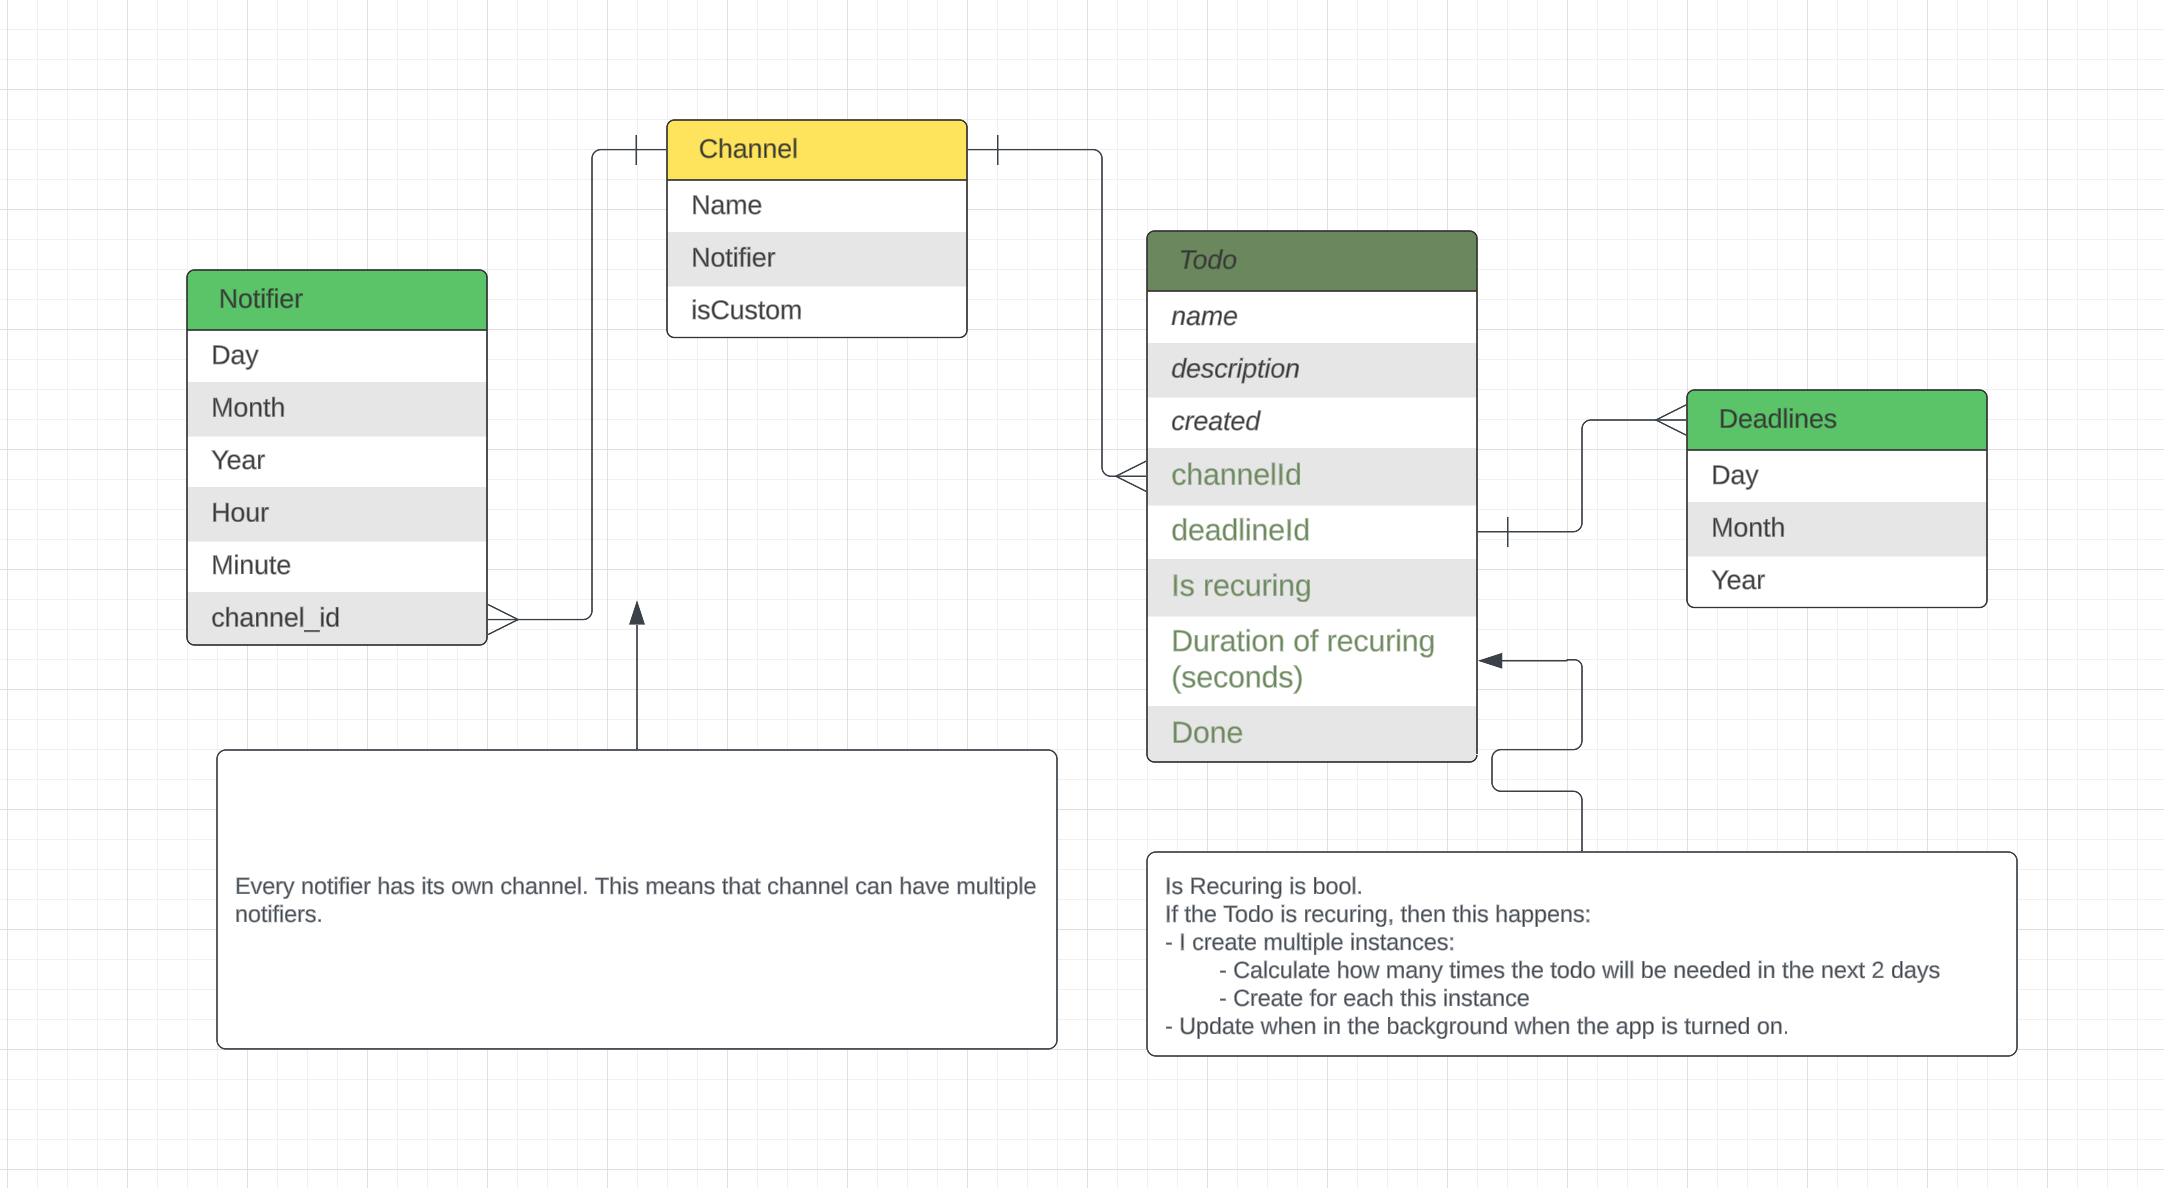
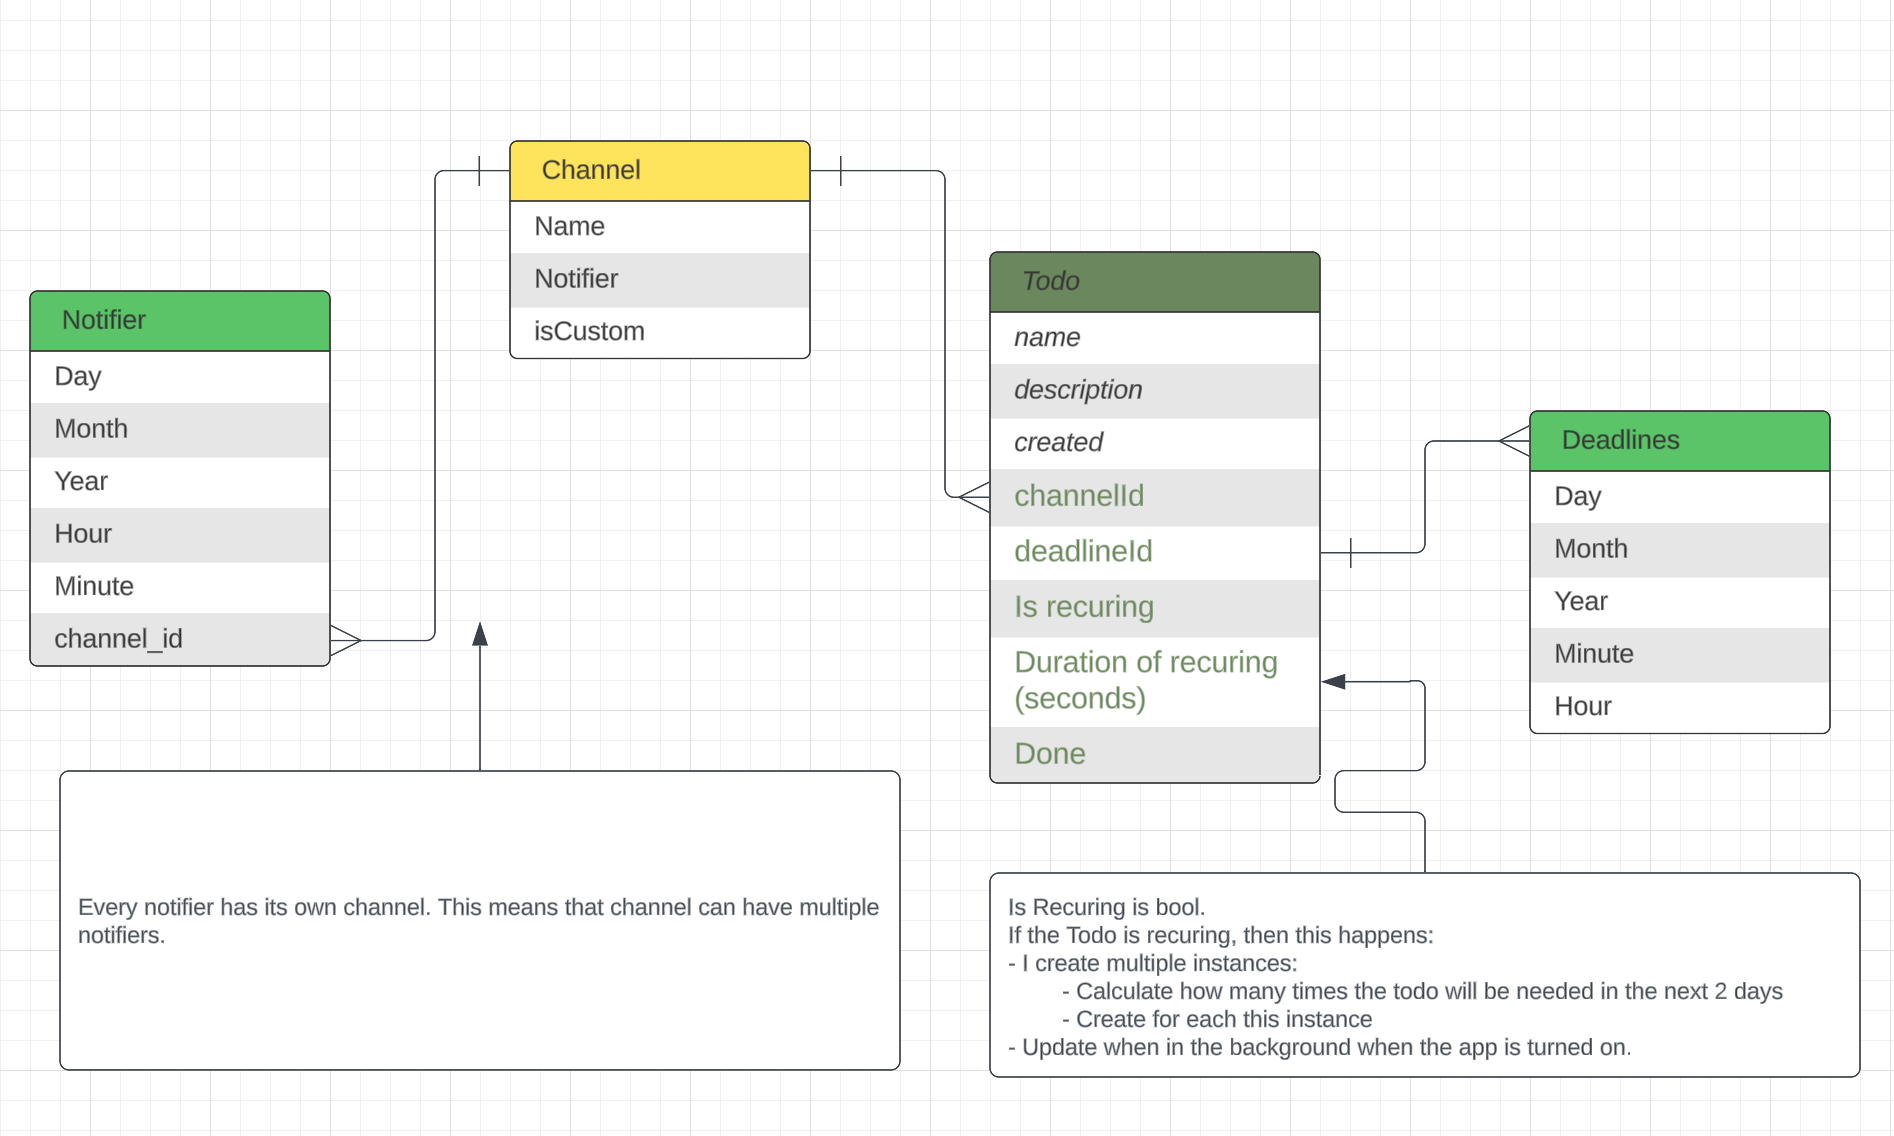
rewriting the add todo functions, new diagram

diff --git a/lib/model/database/insert_and_create.dart b/lib/model/database/insert_and_create.dart
@@ -1,33 +1,63 @@
 import 'package:flutter/material.dart';
 import 'package:sqflite/sqflite.dart';
 import 'package:unfuckyourlife/model/database/open_databases.dart';
+import 'package:unfuckyourlife/model/database/retrieve.dart';
 import 'package:unfuckyourlife/model/notification/notifications.dart';
 
 import '../todo/Todo.dart';
 import 'channelClass/channel.dart';
 
-Future<void> addNewTodoToDatabase(Todo todo) async {
+/// Creates instance of todo
+/// If the todo is recuring, it makes multiple instances, starting from the first instance deadline.
+/// Needs deadline to exist already
+Future<void> addNewTodoToDatabase(Todo todo, bool isCustom) async {
   WidgetsFlutterBinding.ensureInitialized();
   final database = await openOurDatabase();
 
-  _insertTodo(database, todo);
-}
-
-// Define a function that inserts dogs into the database
-Future<void> _insertTodo(database, Todo todo) async {
   print("inserting todo");
   // Get a reference to the database.
   var db = await database;
+
+
+  // int todoInsertedId = await db.insert(
+  //   'todos',
+  //   todo.toMap(),
+  //   conflictAlgorithm: ConflictAlgorithm.replace,
+  // );
+  if (todo.isRecuring) {
+    // Check how many times you will need to create instance of todo (if recuring)
+    final DateTime firstInstance = await todo.getDeadline();
+    final DateTime nextTwoDays = firstInstance.add(const Duration(days: 2));
+
+    final Duration difference = nextTwoDays.difference(firstInstance);
+
+    final int howManyTimes = difference.inSeconds ~/ todo.durationOfRecuring;
+
+    // Make a for loop
+    for (int i = 0; i < howManyTimes; i++) {
+      final Duration addDurationToCreatedInSeconds = Duration(seconds: i * todo.durationOfRecuring,);
+
+      final Todo newTodo = Todo(done: false, durationOfRecuring: todo.durationOfRecuring, isRecuring: todo.isRecuring, channel: todo.channel, created: firstInstance.add(addDurationToCreatedInSeconds), name: todo.name, description: todo.description, deadline: todo.deadline);
+      _insertTodo(database, todo, isCustom);
+    }
+
+    // in the for loop, create each notifier instance and todo instance
+  }
+
+}
+
+/// Adds Todo to database and makes a zoned notification for it (if it is custom).
+Future<void> _insertTodo(Database db, Todo todo, bool isCustom) async {
+  // Insert todo into the database
   int todoInsertedId = await db.insert(
     'todos',
     todo.toMap(),
     conflictAlgorithm: ConflictAlgorithm.replace,
   );
 
-  // If is recuring, set timerTo make this call again
-  if (todo.isRecuring) {
-    Todo newTodo = Todo(id: todoInsertedId, durationOfRecuring: todo.durationOfRecuring, isRecuring: todo.isRecuring, channel: todo.channel, created: todo.created, name: todo.name, description: todo.description, deadline: todo.deadline, done: todo.done);
-    periodicallyShowTodo(newTodo);
+  // Create notifier and notification (if custom)
+  if (isCustom) {
+
   }
 }
 
@@ -66,15 +96,8 @@ Future<int> _insertChannel(database, Channel channel, DateTime date) async {
   );
 }
 
-Future<int> addNewDeadline( DateTime date, Channel channel) async {
+Future<int> addNewDeadline( DateTime date,) async {
   WidgetsFlutterBinding.ensureInitialized();
-  // Check how many times you will need to create instance of todo (if recuring)
-
-  // Make a for loop
-
-  // in the for loop, create each notifier instance and todo instance
-
-
   final database = await openOurDatabase();
   return _insertNewDeadline(database, date,);
 }
@@ -83,7 +106,7 @@ Future<int> _insertNewDeadline(database, DateTime date,)async {
 
   return await db.insert(
     'deadlines',
-    {'day': date.day.toString(), 'month': date.month.toString(), 'year': date.year.toString(),},
+    {'day': date.day.toString(), 'month': date.month.toString(), 'year': date.year.toString(), 'hour': date.hour.toString(), 'minute': date.minute.toString()},
     conflictAlgorithm: ConflictAlgorithm.ignore,
   );
 }

diff --git a/lib/components/homePage/HomePage.dart b/lib/components/homePage/HomePage.dart
@@ -427,6 +427,8 @@ class _HomePageState extends State<HomePage> {
                           selectedDateForDeadline.year,
                           selectedDateForDeadline.month,
                           selectedDateForDeadline.day,
+                          notifyAt.hour,
+                          notifyAt.minute,
                         ),
                       );  
 
@@ -442,7 +444,7 @@ class _HomePageState extends State<HomePage> {
                       );
 
                       // Is recuring is handled in addNewTodoFunction
-                      await addNewTodoToDatabase(newTodo);
+                      await addNewTodoToDatabase(newTodo, selectedChannel.isCustom,);
                       uiUpdateTodos();
 
                       Navigator.of(context).pop();

diff --git a/lib/model/todo/Todo.dart b/lib/model/todo/Todo.dart
@@ -52,7 +52,7 @@ class Todo {
     
     if (mapedNotifList.isNotEmpty) {
       Map<String, dynamic> mapedNotif = mapedNotifList[0];
-      return DateTime(mapedNotif['year'], mapedNotif['month'], mapedNotif['day'],);
+      return DateTime(mapedNotif['year'], mapedNotif['month'], mapedNotif['day'], mapedNotif['hour'], mapedNotif['minute'],);
     }
     else {
       // should not happen
